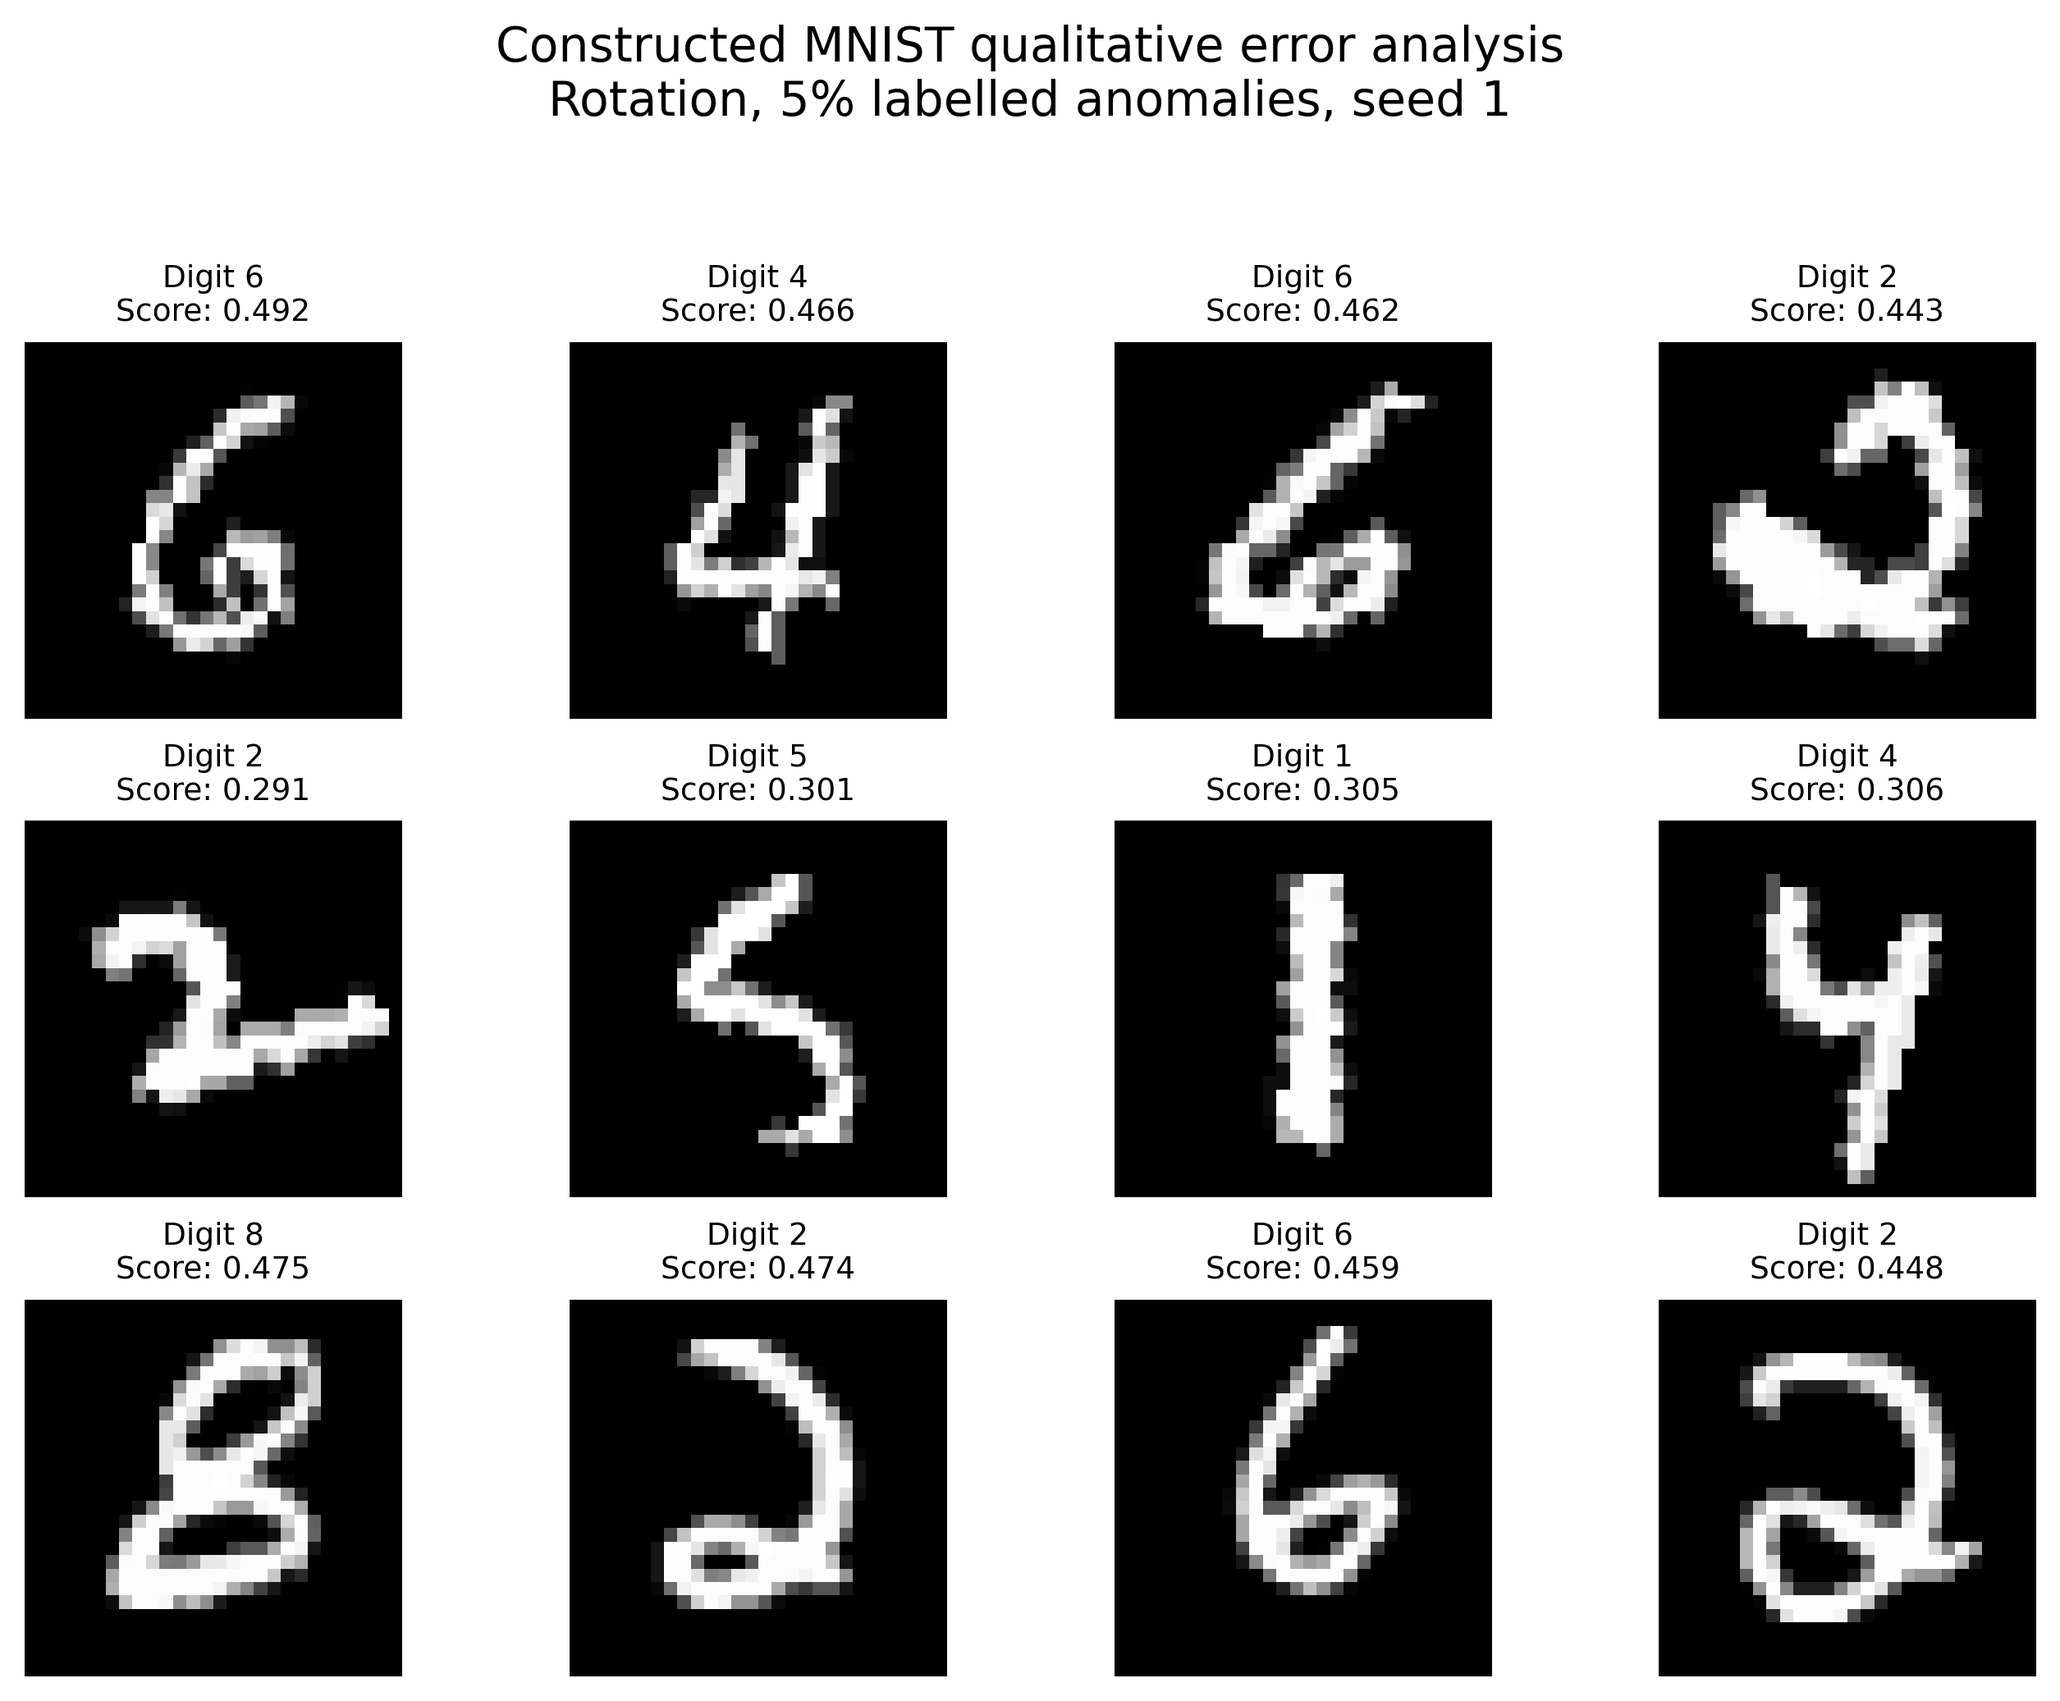
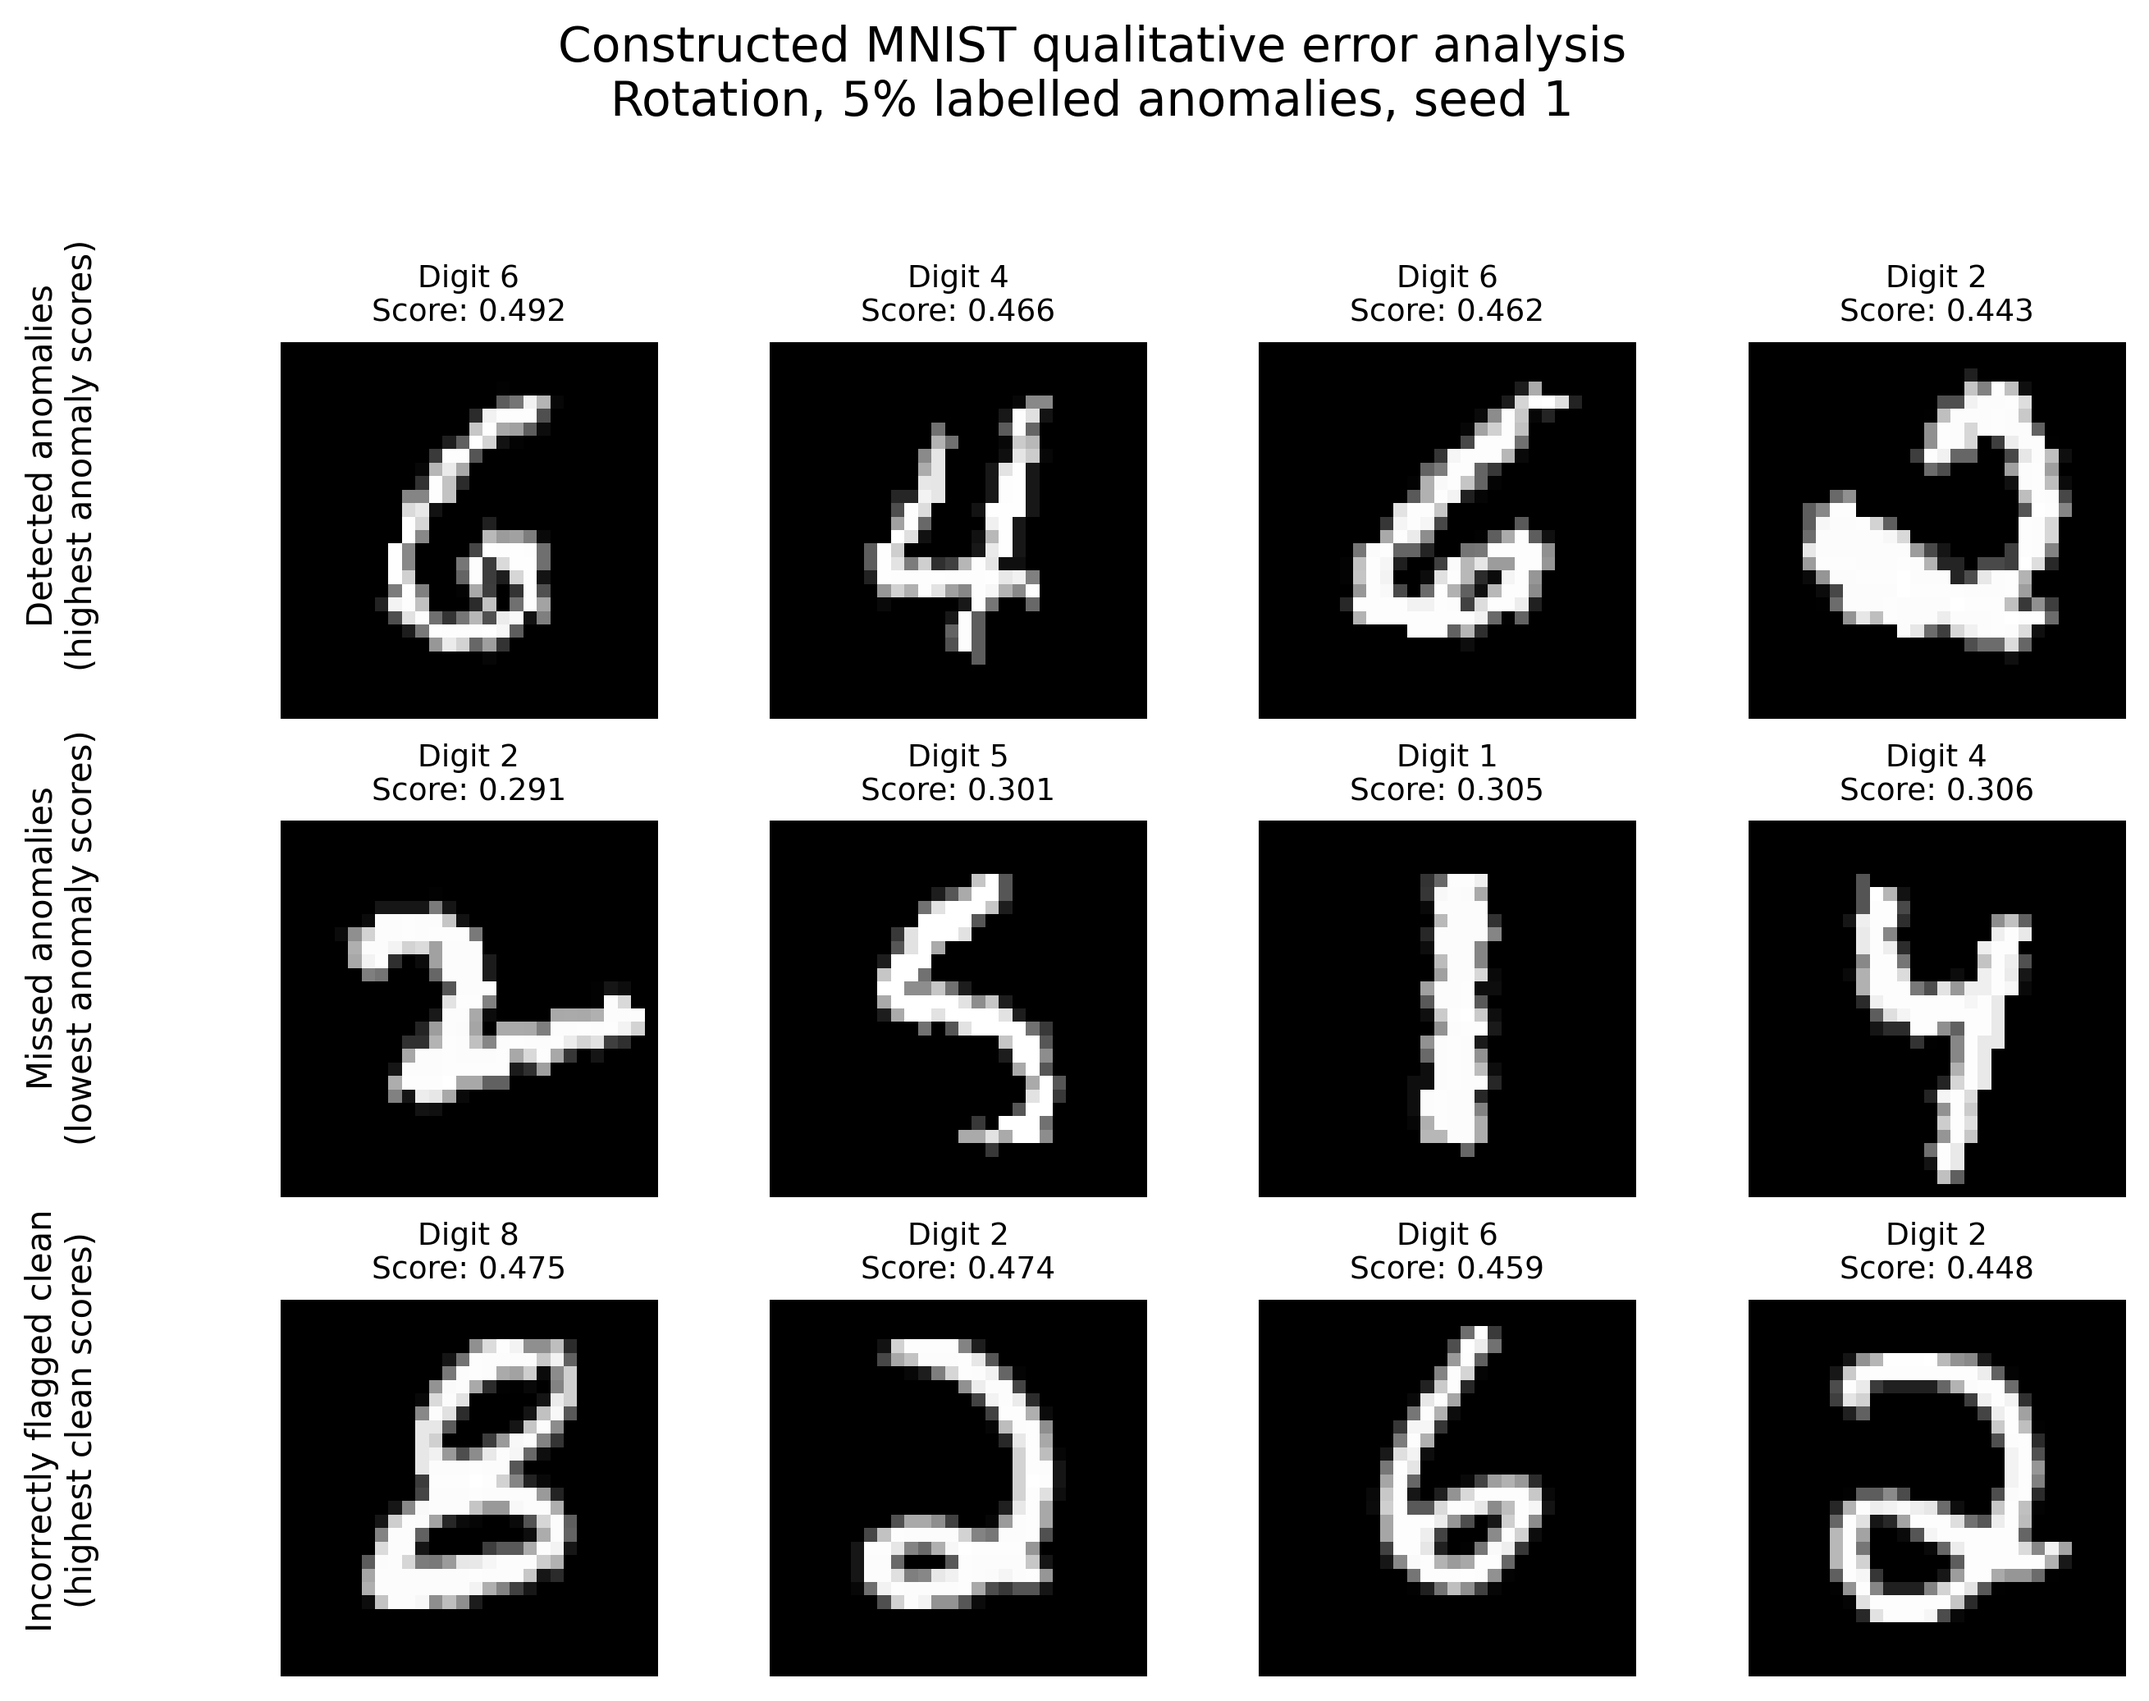
Improve qualitative analysis figure labels

diff --git a/scripts/plot_constructed_detection_examples.py b/scripts/plot_constructed_detection_examples.py
@@ -116,10 +116,20 @@ def main():
             )
             axes[row, column].axis("off")
 
-        axes[row, 0].set_ylabel(
+    row_positions = [0.73, 0.45, 0.17]
+
+    for position, (group_name, _) in zip(
+        row_positions,
+        groups,
+    ):
+        fig.text(
+            0.035,
+            position,
             group_name,
+            ha="center",
+            va="center",
+            rotation=90,
             fontsize=10,
-            labelpad=18,
         )
 
     fig.suptitle(
@@ -128,7 +138,7 @@ def main():
         fontsize=14,
     )
 
-    fig.tight_layout(rect=[0, 0, 1, 0.94])
+    fig.tight_layout(rect=[0.10, 0, 1, 0.94])
 
     OUTPUT_PATH.parent.mkdir(
         parents=True,
